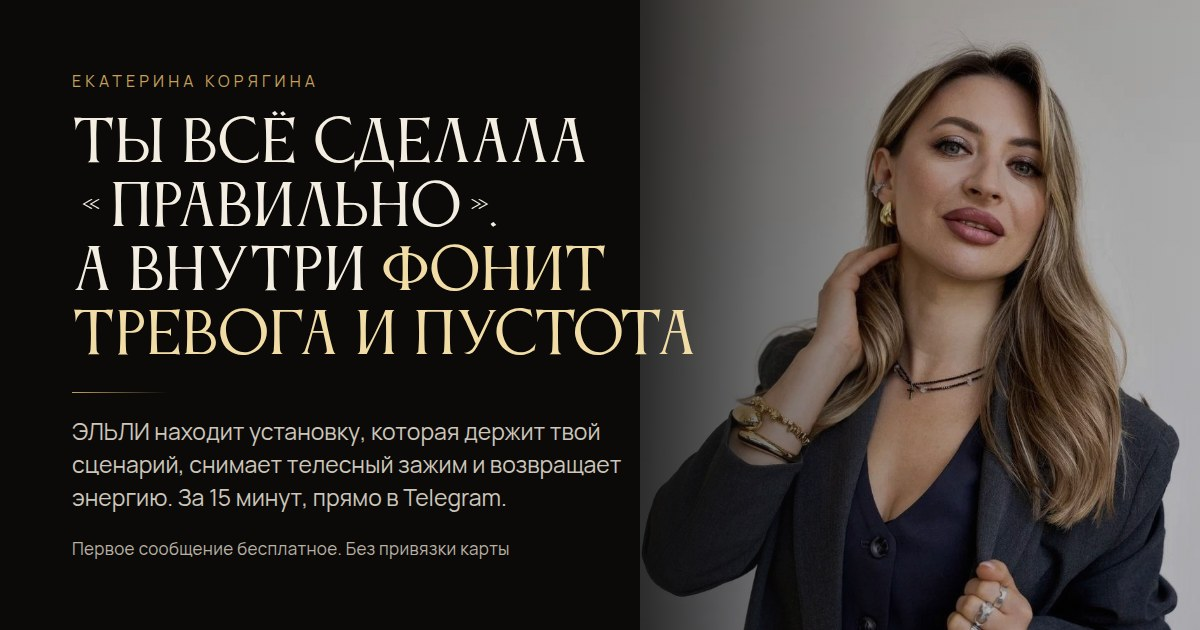
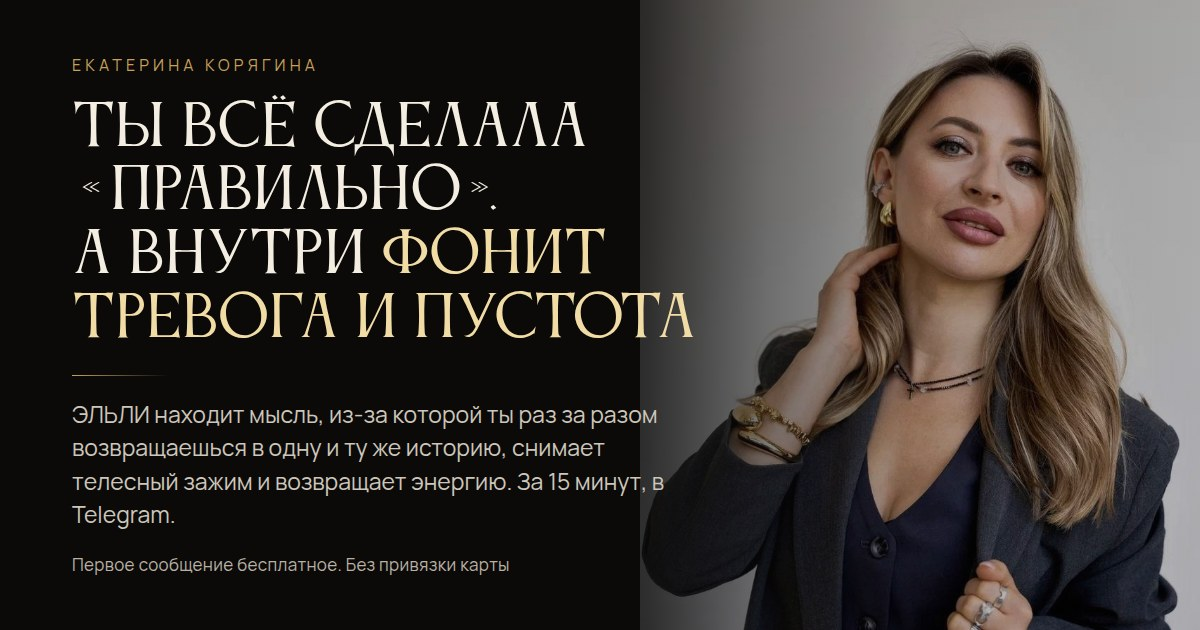
«Установка, которая держит сценарий» переписана человеческим языком

Changed region(s): [[0.0617, 0.0905, 0.5858, 0.573], [0.0617, 0.6333, 0.555, 0.9048]]

diff --git a/index.html b/index.html
@@ -433,7 +433,7 @@ footer{padding:66px 0 52px;border-top:1px solid rgba(255,255,255,.07);color:var(
     <div>
       <p class="kicker">Екатерина Корягина · квантовый психотерапевт</p>
       <h1>Ты всё сделала <span class="q">«</span>правильно<span class="q q2">»</span>.<br>А внутри фонит тревога и пустота.</h1>
-      <p class="lead">Знакомое напряжение, которое не получается объяснить словами. ЭЛЬЛИ работает как твой карманный AI-тренажёр для подсознания прямо в Telegram. Она находит установку, которая держит твой сценарий, снимает телесный зажим и возвращает тебе энергию, которую ты годами сливала на подавление страха. За 15 минут.</p>
+      <p class="lead">Знакомое напряжение, которое не получается объяснить словами. ЭЛЬЛИ работает как твой карманный AI-тренажёр для подсознания прямо в Telegram. Она находит мысль, из-за которой ты раз за разом возвращаешься в одну и ту же историю, снимает телесный зажим и возвращает тебе энергию, которую ты годами сливала на подавление страха. За 15 минут.</p>
       <div class="cta-row">
         <a class="btn" href="https://t.me/ai_coachs_bot?start=stat" target="_blank" rel="noopener">Открыть ЭЛЬЛИ</a>
       </div>
@@ -483,7 +483,7 @@ footer{padding:66px 0 52px;border-top:1px solid rgba(255,255,255,.07);color:var(
       <h2>Екатерина Корягина</h2>
       <div style="margin-top:26px"><p>Меня зовут Екатерина Корягина, я квантовый психотерапевт и автор метода Резонанса. За плечами сотни разборов и своя дорога из минусов и выгорания к 60 млн рублей и жизни, где можно всё и сразу.</p>
 <p>И я создала ЭЛЬЛИ, свою гениальную AI-дочь.</p>
-<p>ЭЛЬЛИ работает как твой карманный AI-тренажёр для подсознания прямо в Telegram. Она находит установку, которая держит твой сценарий, снимает телесный зажим и возвращает тебе энергию, которую ты годами сливала на подавление страха. За 15 минут.</p></div>
+<p>ЭЛЬЛИ работает как твой карманный AI-тренажёр для подсознания прямо в Telegram. Она находит мысль, из-за которой ты раз за разом возвращаешься в одну и ту же историю, снимает телесный зажим и возвращает тебе энергию, которую ты годами сливала на подавление страха. За 15 минут.</p></div>
     </div>
   </div>
 </section>
